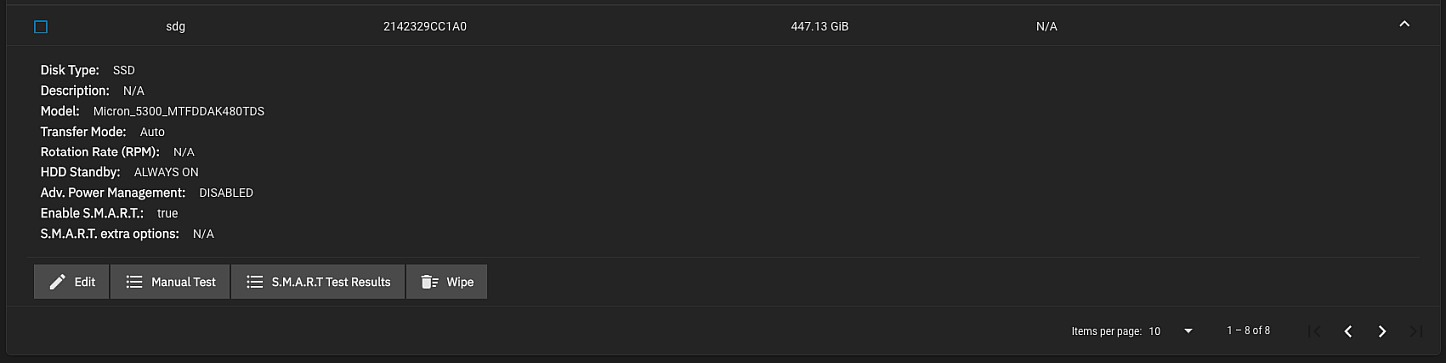
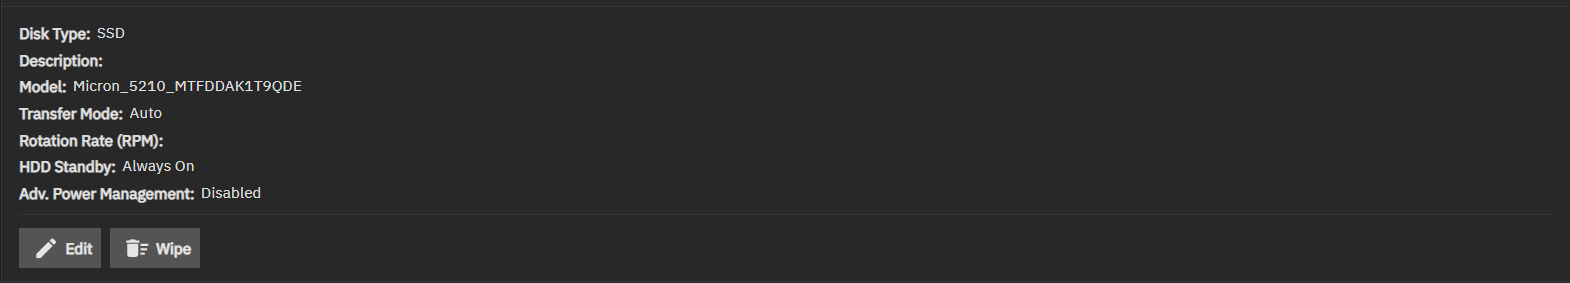
PD-1999 Update Disks Screen UI Ref
This commit updates the DisksScreen.md UI ref article

diff --git a/content/SCALE/SCALEUIReference/Storage/DisksScreen.md b/content/SCALE/SCALEUIReference/Storage/DisksScreen.md
@@ -20,7 +20,7 @@ The list includes the names, serial numbers, sizes, and pools for each system di
 {{< trueimage src="/images/SCALE/Storage/DisksScreen.png" alt="Disks Screen" id="Disks Screen" >}}
 
 Use the **Columns** dropdown list to select options to customize disk the information displayed.
-Options are **Select All**, **Serial** (the disk serial number), **Disk Size**, **Pool** (where the disk is in use), **Disk Type**, **Description**, **Model**, **Transfer Mode**, **Rotation Rate (RPM)**, **HDD Standby**, **Adv. Power Management**, **Enable S.M.A.R.T.**, **S.M.A.R.T. extra options**, and **Reset to Defaults**.
+Options are **Select All**, **Name**, **Serial** (the disk serial number), **Disk Size**, **Pool** (where the disk is in use), **Disk Type**, **Description**, **Model**, **Transfer Mode**, **Rotation Rate (RPM)**, **HDD Standby**, **Adv. Power Management**, and **Reset to Defaults**.
 Each option displays the information you enter in the **Edit Disk** screen or when you install the disk.
 
 Select the checkbox to the left of a disk to display the **[Batch Operations](#batch-operations)** options.
@@ -29,6 +29,7 @@ The checkbox at the top of the table selects all disks in the system. Select aga
 **Storage** in the breadcrumb at the top of the screen returns to the **[Storage Dashboard]({{< ref "/SCALE/SCALEUIReference/Storage" >}})**.
 
 ## Disks Screen - Expanded Disk
+
 Click anywhere on a disk row to expand it and show the traits specific to that disk and available options.
 The expanded view of a disk includes details for the disk and options to edit disk properties, run a SMART test and view the test results, and in some instances the ability to wipe the disk.
 
@@ -36,20 +37,17 @@ The expanded view of a disk includes details for the disk and options to edit di
 
 **Edit** opens the **[Edit Disk](#edit-disk-screen)** screen.
 
-**Manual Test** opens the **[Manual S.M.A.R.T. test](#manual-test-dialog)** where you can initiate a S.M.A.R.T. test of the disk.
-
-**S.M.A.R.T. Test Results** opens the **[S.M.A.R.T. Test Results of *diskname*](#smart-test-results-of-diskname-screen)** screen with the results of each S.M.A.R.T. test run for that disk.
-
+If a disk is not assoicated with a pool and is inactive, the **Wipe** option shows.
 **Wipe** opens the **[Wipe Disk](#wipe-disk-dialogs)** dialog.
 
 ### Batch Operations
-Select a checkbox to the left of a disk on the **Disks** screen to display the **Batch Operations** functions: **Edit Disk(s)** and **Manual Test**.
+
+Select a checkbox to the left of a disk on the **Disks** screen to display the **Batch Operations** functions: **Edit Disk(s)**.
 
 **Edit Disk(s)** opens the **[Bulk Edit Disks](#bulk-edit-disks)** screen.
 
-**Manual Test** opens the **[Manual SMART Test]()** dialog with a list of the disk(s) selected.
-
 #### Bulk Edit Disks
+
 The **Bulk Edits Disks** screen allows you to change disk settings for multiple disks simultaneously.
 The screen lists the device names for each selected disk in the **Disks to be edited** section.
 
@@ -61,67 +59,14 @@ The screen lists the device names for each selected disk in the **Disks to be ed
 |---------|-------------|
 | **HDD Standby** | Select the minutes of inactivity before the drive enters standby mode from the dropdown list. Options are **Always On** or **5**, **10**, **20**, **30**, **60**, **120**, **240**, **300**, and **330**. For more information read this [forum post|(https://forums.freenas.org/index.php?threads/how-to-find-out-if-a-drive-is-spinning-down-properly.2068/) describing identifying spun-down drives. Temperature monitoring is disabled for the standby disk. |
 | **Advanced Power Management** | Select the power management profile from the dropdown list. Options are **Disabled**, **Level 1 - Minimum power usage with Standby (spindown)**, **Level 64 - Intermediate power usage with Standby**, **Level 127 - Maximum power usage with Standby**, **Level 128 - Minimum power usage without Standby (no spindown)**, **Level 192 - Intermediate power usage without Standby**, and **Level 254 - Maximum performance, maximum power usage**. |
-| **Enable S.M.A.R.T.**  | Select to enable and allow the system to conduct periodic [S.M.A.R.T. tests]({{< ref "SMARTTestsScreensSCALE" >}}). |
-| **S.M.A.R.T. Extra Options** | Enter additional [smartctl(8)](https://www.smartmontools.org/browser/trunk/smartmontools/smartctl.8.in). |
-{{< /truetable >}}
-{{< /expand >}}
-
-### Manual S.M.A.R.T. Test Dialog
-The **Manual S.M.A.R.T. Test** dialog displays the name of the selected disk(s) and the option to specify the type of test you want to run outside of a scheduled S.M.A.R.T. test.
-
-{{< trueimage src="/images/SCALE/DataProtection/ManualSMARTTestDialog.png" alt="Manual SMART Test Dialog" id="Manual SMART Test Dialog" >}}
-
-{{< expand "Manual S.M.A.R.T. Test Settings" "v" >}}
-{{< truetable >}}
-| Setting | Description |
-|---------|-------------|
-| **Long** | Runs SMART Extended Self Test. This scans the entire disk surface and can take many hours on large-volume disks. |
-| **Short** | Runs SMART Short Self Test (usually under ten minutes). These are basic disk tests that vary by manufacturer. |
-| **Conveyance** | Runs a SMART Conveyance Self-Test. This self-test routine is intended to identify damage incurred during transporting of the device. This self-test routine requires only minutes to complete. |
-| **Offline** | Runs SMART Immediate Offline Test. The effects of this test are visible only in that it updates the SMART Attribute values, and if the test finds errors, they appear in the SMART error log. |
-{{< /truetable >}}
-
-**Start** begins the test. Depending on the test type selected, the test can take some time to complete. TrueNAS generates alerts when tests discover issues.
-
-For information on automated S.M.A.R.T. testing, see the [S.M.A.R.T. tests]({{< ref "SMARTTestsSCALE" >}}) article.
-{{< /expand >}}
-
-### S.M.A.R.T. Test Results of&nbsp;*diskname*&nbsp;Screen
-The **S.M.A.R.T. Test Results of *diskname*** lists test results for the selected disk.
-The **Storage** and **Disks** breadcrumbs return to other storage pages. 
-**Storage** opens the **Storage Dashboard** and **Disks** opens the **Disks** screen.
-
-{{< trueimage src="/images/SCALE/DataProtection/SMARTTestResultsofDiskExpanded.png" alt="S.M.A.R.T. Test Results for A Disk Screen" id="S.M.A.R.T. Test Results for A Disk Screen" >}}
-
-{{< expand "Customizing the Test Results Screen" "v" >}}
-Customize the information displayed with the **Columns** option. 
-Options are **Unselect All** (toggles to **Select All**), **Description**, **Status**, **Remaining**, **Lifetime**, **Error**, and **Reset to Defaults**.
-**Unselect All** removes all information except the **ID** number.
-Expand the row to see the **Description**, Status, Remaining, Lifetime, and Error information for the test ID.
-
-{{< trueimage src="/images/SCALE/Storage/SMARTTestResultsExpandedAfterUnselectAll.png" alt="S.M.A.R.T. Test Results after Unselect All" id="S.M.A.R.T. Test Results after Unselect All" >}}
-
-The **Select All** option displays all information on the table view and eliminates the expand function for the tests listed.
-
-#### SMART Test Result Column Options
-These options, except the ID, appear on the **Columns** dropdown list.
-
-{{< truetable >}}
-| Option | Description |
-|--------|-------------|
-| **ID** | The test identification number assigned by the system. |
-| **Description** | Type of test run and the status of the system. For example, **Short offline** indicates the test type is **Short** while the system is **offline** when the test runs. |
-| **Status** | Lists the test status. Options are **Success** or **Fail**. |
-| **Remaining** | How much of the test is left to perform. If the test encounters an error, the field shows at what point in the test the error occurs. A value of **0** means the test completed and with no errors encountered. |
-| **Lifetime** | The age of the disk when the test ran. |
-| **Error** | Displays details about any error encountered during the test. Displays **N/A** if no error was encountered during the test. |
 {{< /truetable >}}
 {{< /expand >}}
 
 {{<include file="/static/includes/addcolumnorganizer.md">}}
 
 ### Wipe Disk Dialogs
-The option to wipe a disk only displays when a disk is unused by a pool.
+
+The option to wipe a disk only displays when a disk is not assigned to a pool, and is not in use.
 **Wipe** opens three dialogs, one to select the method, a confirmation dialog, and a progress dialog that includes the option to abort the process.
 
 The **Wipe Disk *diskname*** opens after clicking **Wipe** on the expanded view of a disk on the **Disks** screen.
@@ -174,23 +119,4 @@ Click **Edit Disk** on the **[Devices]({{< ref "DevicesScreensSCALE" >}})** scre
 |---------|-------------|
 | **HDD Standby** | Select a value from the dropdown list of options or leave it set to the default **Always On**. This specifies the minutes of inactivity before the drive enters standby mode. For information on identifying spun-down drives, see this [forum post](https://www.truenas.com/community/threads/how-to-find-out-if-a-drive-is-spinning-down-properly.2068/). Temperature monitoring is disabled for standby disks. |
 | **Advanced Power Management (APM)** | Select a power management profile from the dropdown list of options that include **Disabled** (the default setting), **Level 1 - Minimum power usage with Standby (spindown)**, **Level 64 - Intermediate power usage with Standby**, **Level 127 - Maximum power usage with Standby**, **Level 128 - Minimum power usage without Standby (no spindown)**, **Level 192 - Intermediate power usage without Standby**, or **Level 254 - Maximum performance, maximum power usage**. APM levels control power management behavior when drives are idle, not maximum performance capabilities. When drives are actively accessed, they operate at full performance regardless of the APM setting. Lower numbered levels prioritize power savings during idle periods, while higher levels prioritize quick response times. |
-{{< /truetable >}}
-
-### S.M.A.R.T. Settings
-{{< truetable >}}
-| Setting | Description |
-|---------|-------------|
-| **Enable S.M.A.R.T.** | Select to enable the system to conduct periodic [S.M.A.R.T. tests]({{< ref "SMARTTestsSCALE" >}}). |
-| **S.M.A.R.T. extra options** | Enter additional [smartctl(8)](https://www.unix.com/man-page/suse/8/smartctl/) options. |
-{{< /truetable >}}
-
-### SED Settings
-
-{{< include file="/static/includes/SEDEnterpriseAdmonition.md" >}}
-
-{{< truetable >}}
-| Setting | Description |
-|-----------|-------------|
-| **SED Password** | Enter a password to set or change for this individual Self-Encrypting Disk (SED). If both an individual and global SED password are present, the individual SED password overrides the global password for the disk it is configured on. |
-| **Clear SED Password** | Select to clear the SED password for this disk. |
 {{< /truetable >}}
